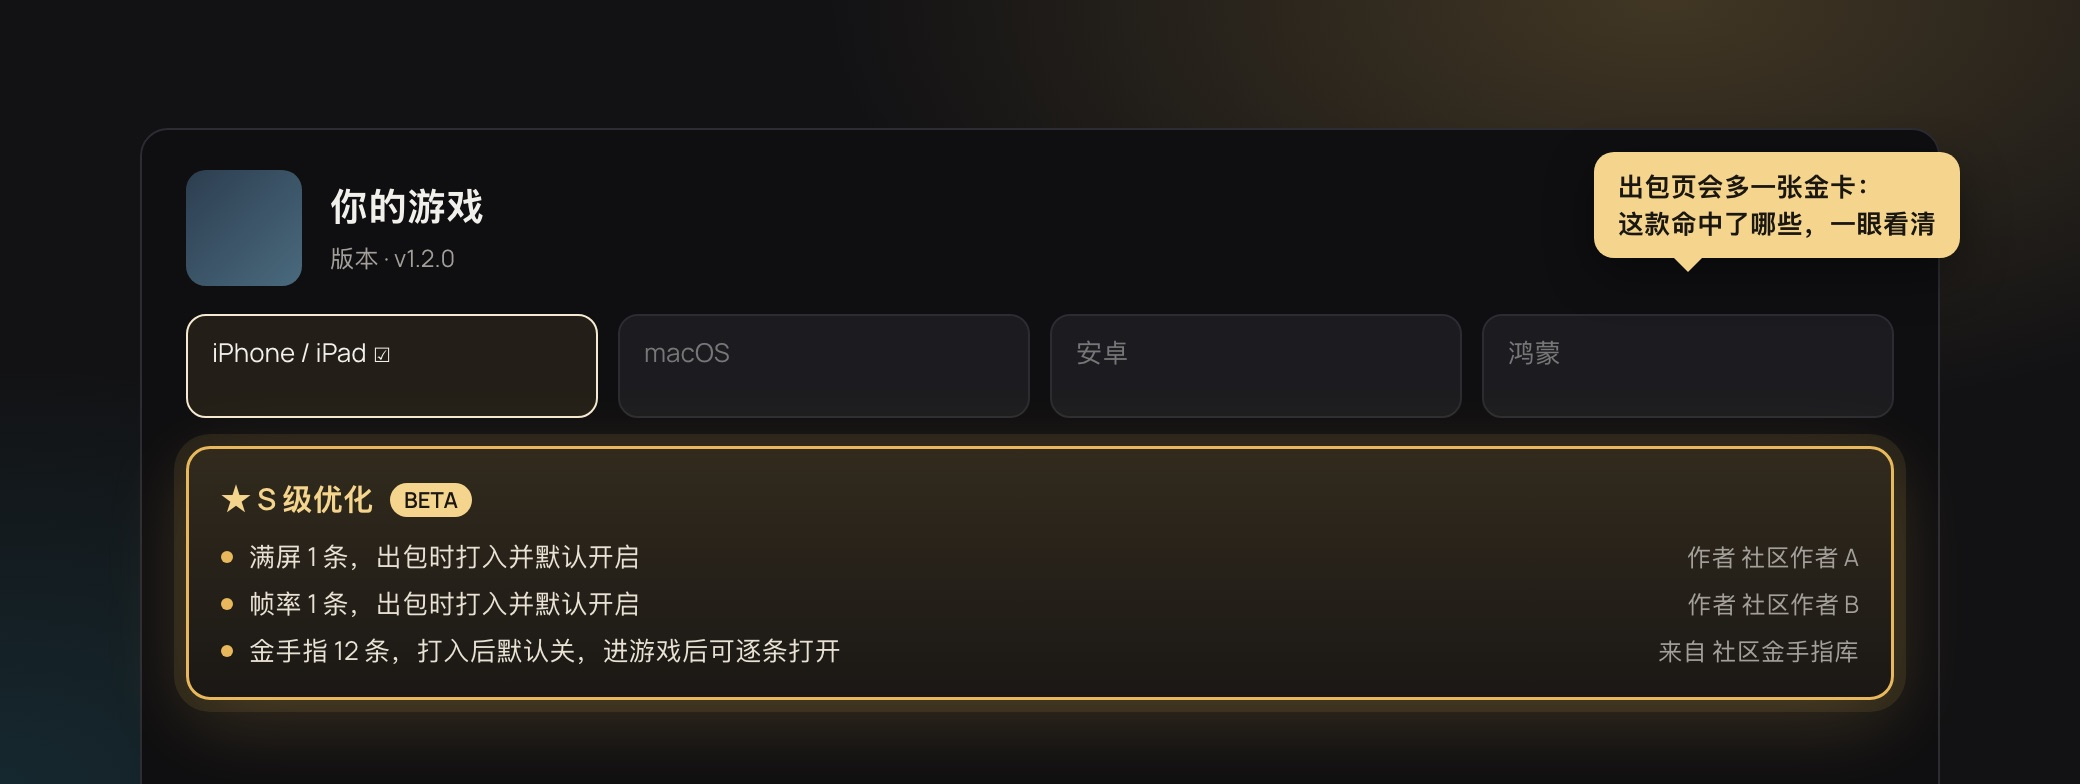
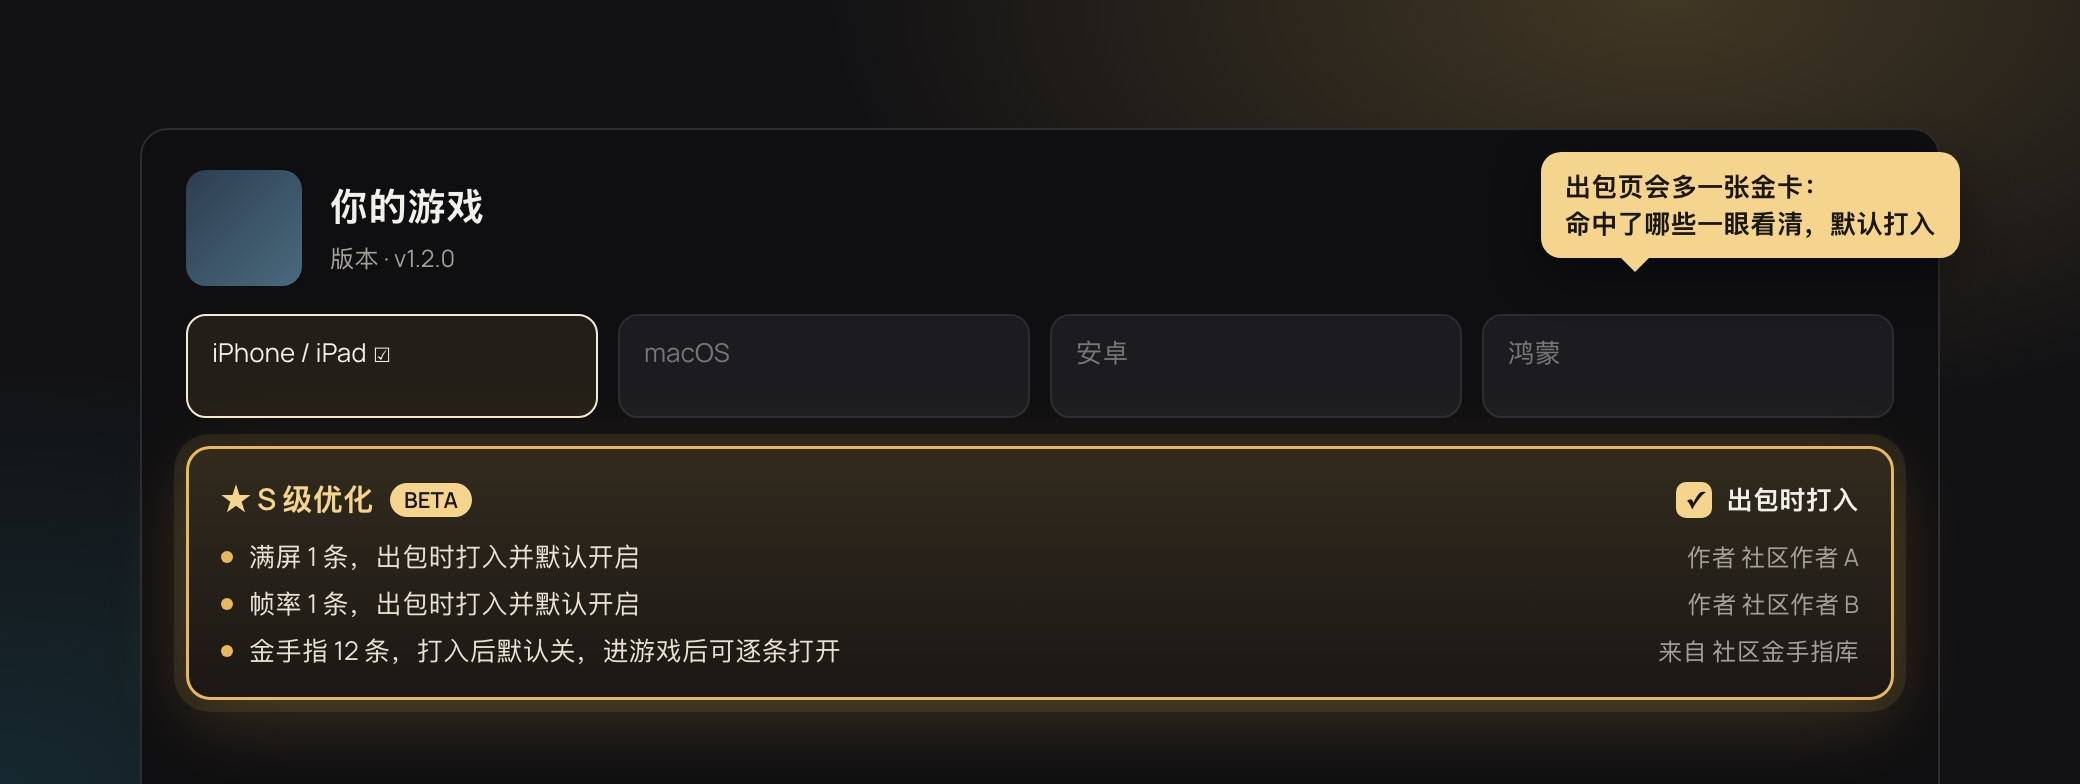
新功能大窗：出包页按真实界面写「S 级优化」卡片 +「出包时打入」勾选（D2R 线核对），示意图补勾选框

Changed region(s): [[0.7188, 0.1837, 0.9375, 0.3367], [0.7812, 0.6122, 0.9062, 0.6735]]

diff --git a/docs/site/s-grade.html b/docs/site/s-grade.html
@@ -24,7 +24,7 @@ footer{margin-top:36px;color:var(--muted);font-size:14px}footer a{color:var(--cr
 <img class="poster" src="feature/sgrade-0.jpg" alt="S 级优化">
 <header><span class="b">v0.4.0 新功能</span><h1>S 级优化</h1><p>满屏、高帧率、金手指：出包时按你的游戏版本自动配好。Mac、iPhone、iPad 都支持。</p></header>
 <section><img src="feature/sgrade-1.jpg" alt="" loading="lazy"><div class="t"><div class="k">S 级优化 · 自动配好</div><h2>出包时，自动带上社区补丁和金手指</h2>
-<div class="g"><div><b class="h">是什么</b><p>S2Arm 按你的游戏版本，从社区补丁库里找能用的<b>满屏补丁、帧率补丁和金手指</b>，出包时一起打进去。</p></div><div><b class="h">怎么用</b><p>不用自己找、自己装。照常点「开始出包」就行，命中的会自动打进包。</p></div><div><b class="h">在哪用</b><p>选一款去出包：出包页金色的「<b>S 级优化（Beta）· 出包时打入</b>」默认勾着，列出命中的每一项和作者，不要可以取消。</p></div></div></div></section>
+<div class="g"><div><b class="h">是什么</b><p>S2Arm 按你的游戏版本，从社区补丁库里找能用的<b>满屏补丁、帧率补丁和金手指</b>，出包时一起打进去。</p></div><div><b class="h">怎么用</b><p>不用自己找、自己装。照常点「开始出包」就行，命中的会自动打进包。</p></div><div><b class="h">在哪用</b><p>选一款去出包：出包页上金色的「<b>S 级优化</b>」卡片列出命中的每一项和作者，右边的「<b>出包时打入</b>」默认勾着，不要可以取消。</p></div></div></div></section>
 <section><img src="feature/sgrade-2.jpg" alt="" loading="lazy"><div class="t"><div class="k">S 级优化 · 满屏与帧率</div><h2>画面铺满，帧率翻倍</h2>
 <div class="g"><div><b class="h">是什么</b><p><b>满屏补丁</b>按你的屏幕比例铺满，不留黑边、人物不变形；<b>帧率补丁</b>让 30 帧的游戏跑 60，高刷屏能到 120。</p></div><div><b class="h">怎么用</b><p>版本对得上的满屏、帧率补丁默认开着，帧率按屏幕自动挑最高一档。开着补丁闪退，下次打开会自动关掉那一项。</p></div><div><b class="h">在哪用</b><p>想调档或关掉：iPhone / iPad 在游戏里点<b>左上角齿轮 → S 级优化</b>；Mac 在游戏库选中这款，点齿轮「<b>启动设置</b>」。</p></div></div></div></section>
 <section><img src="feature/sgrade-3.jpg" alt="" loading="lazy"><div class="t"><div class="k">S 级优化 · 金手指</div><h2>金手指，进游戏逐条打开</h2>
